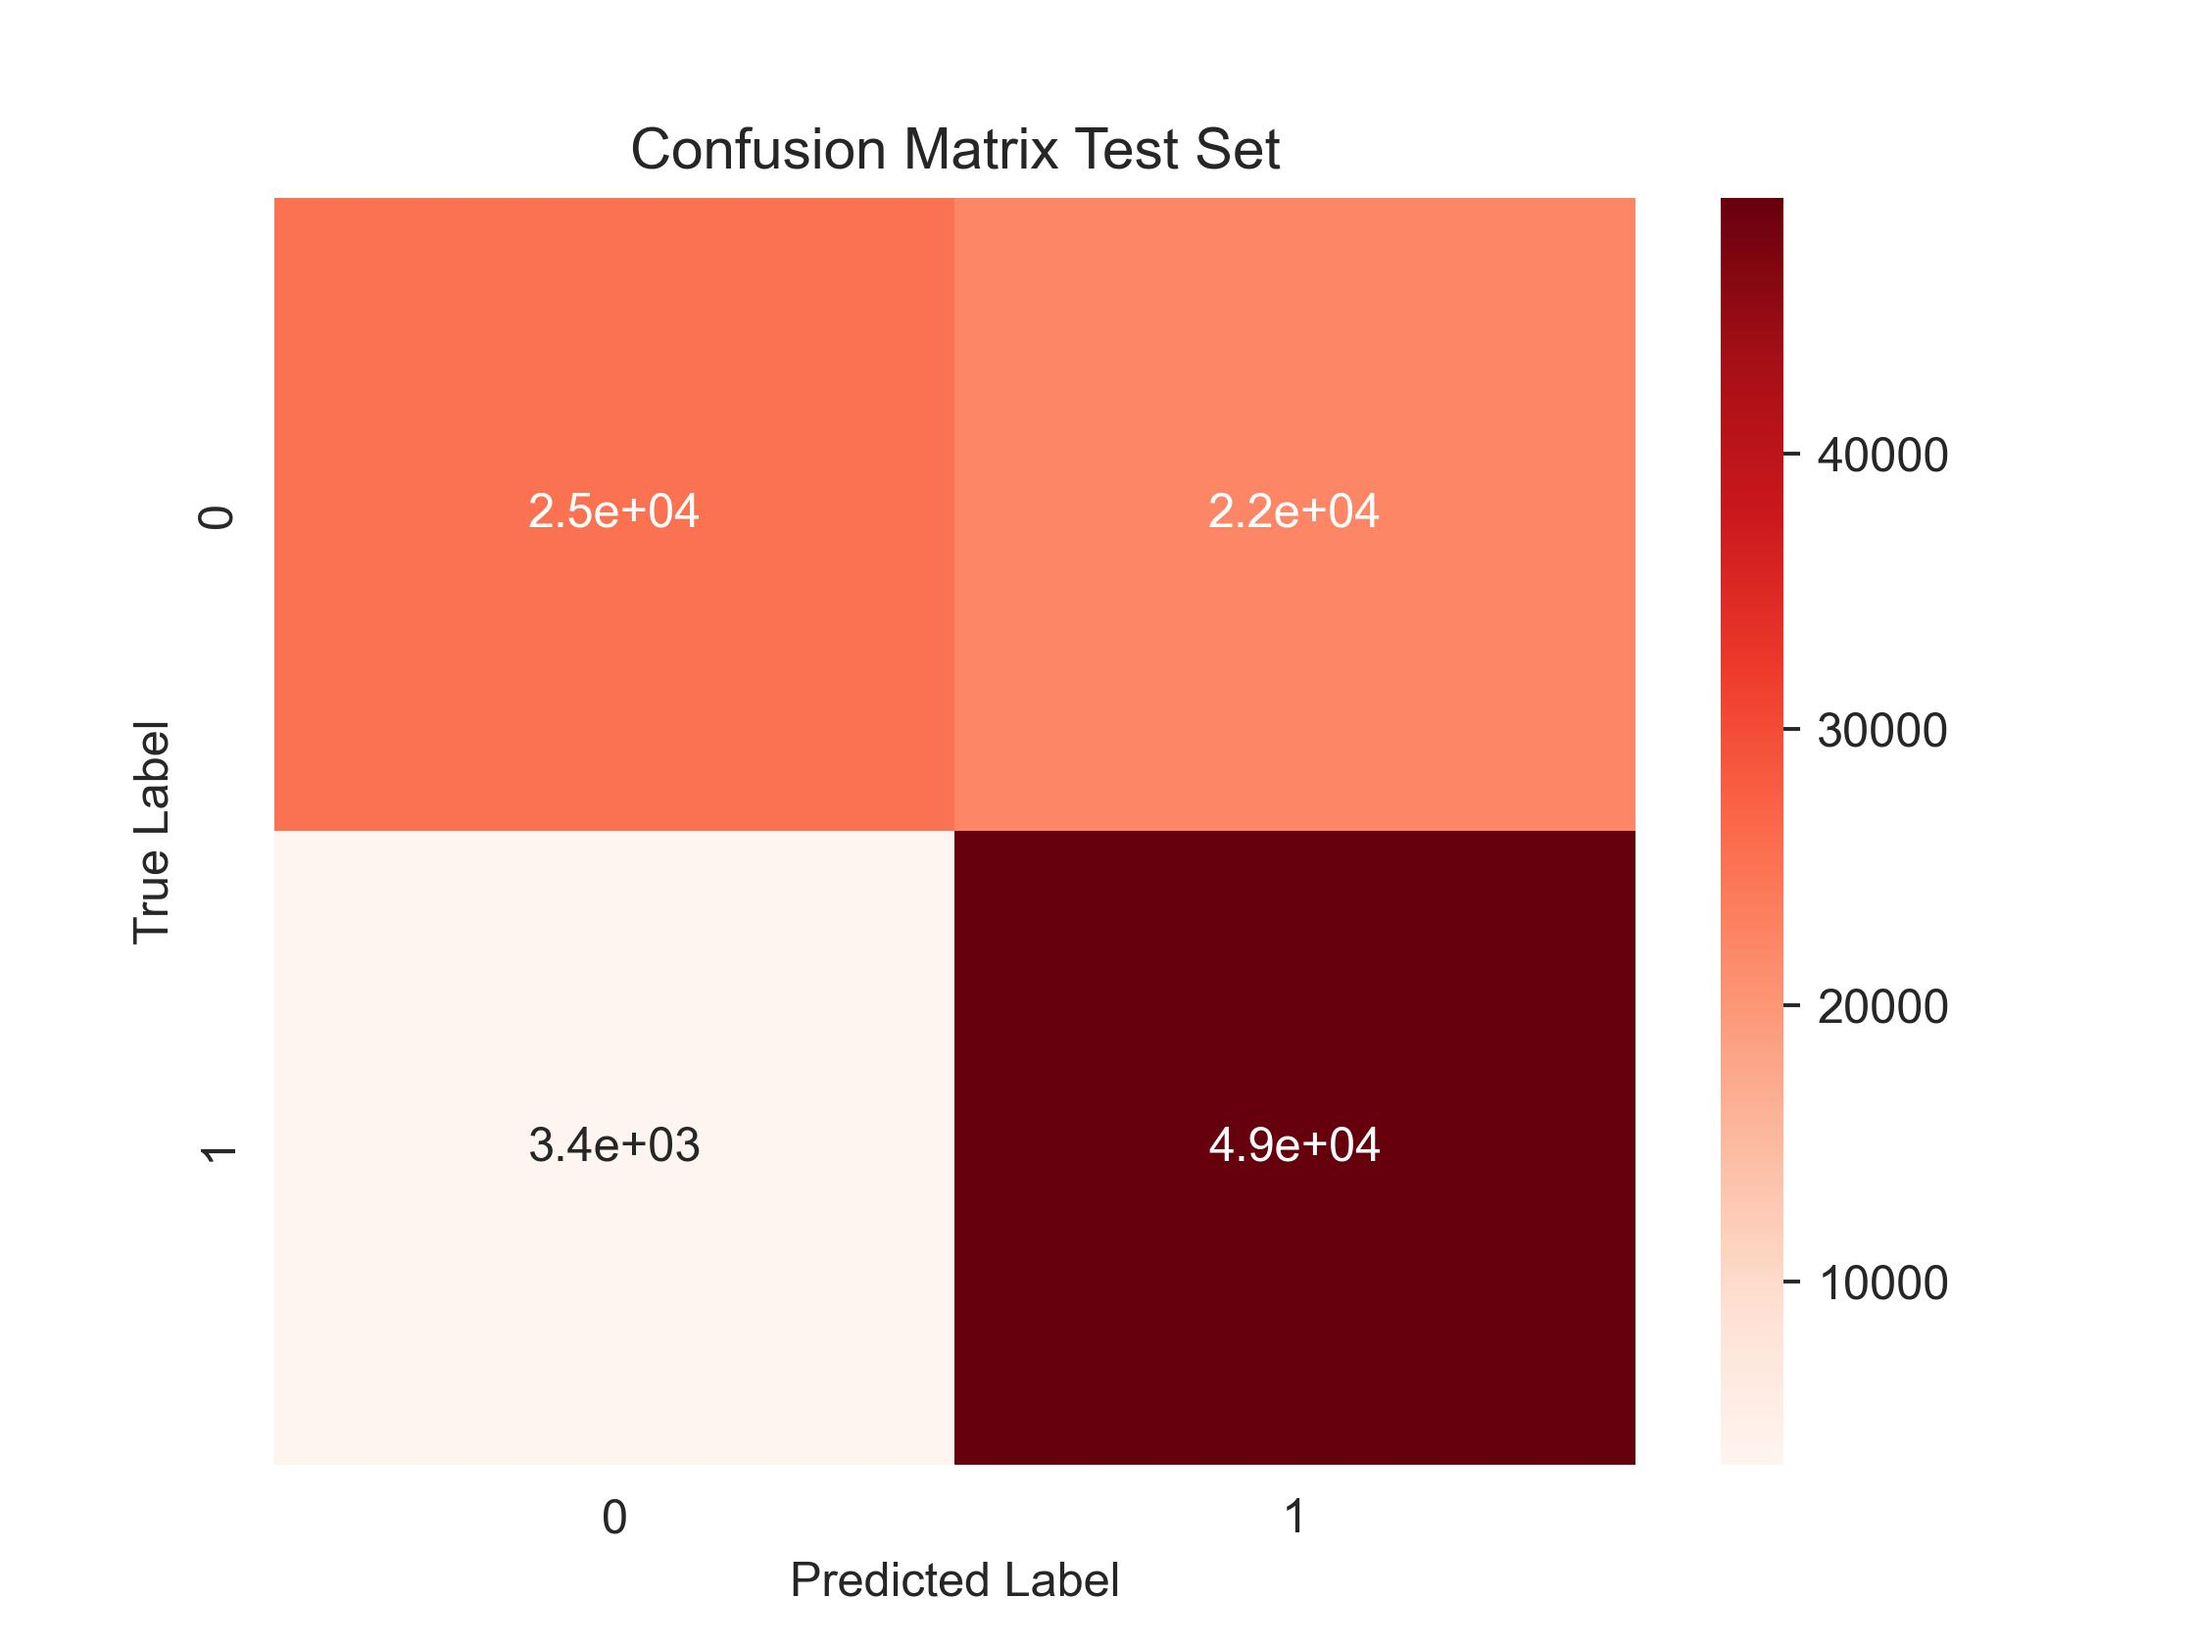
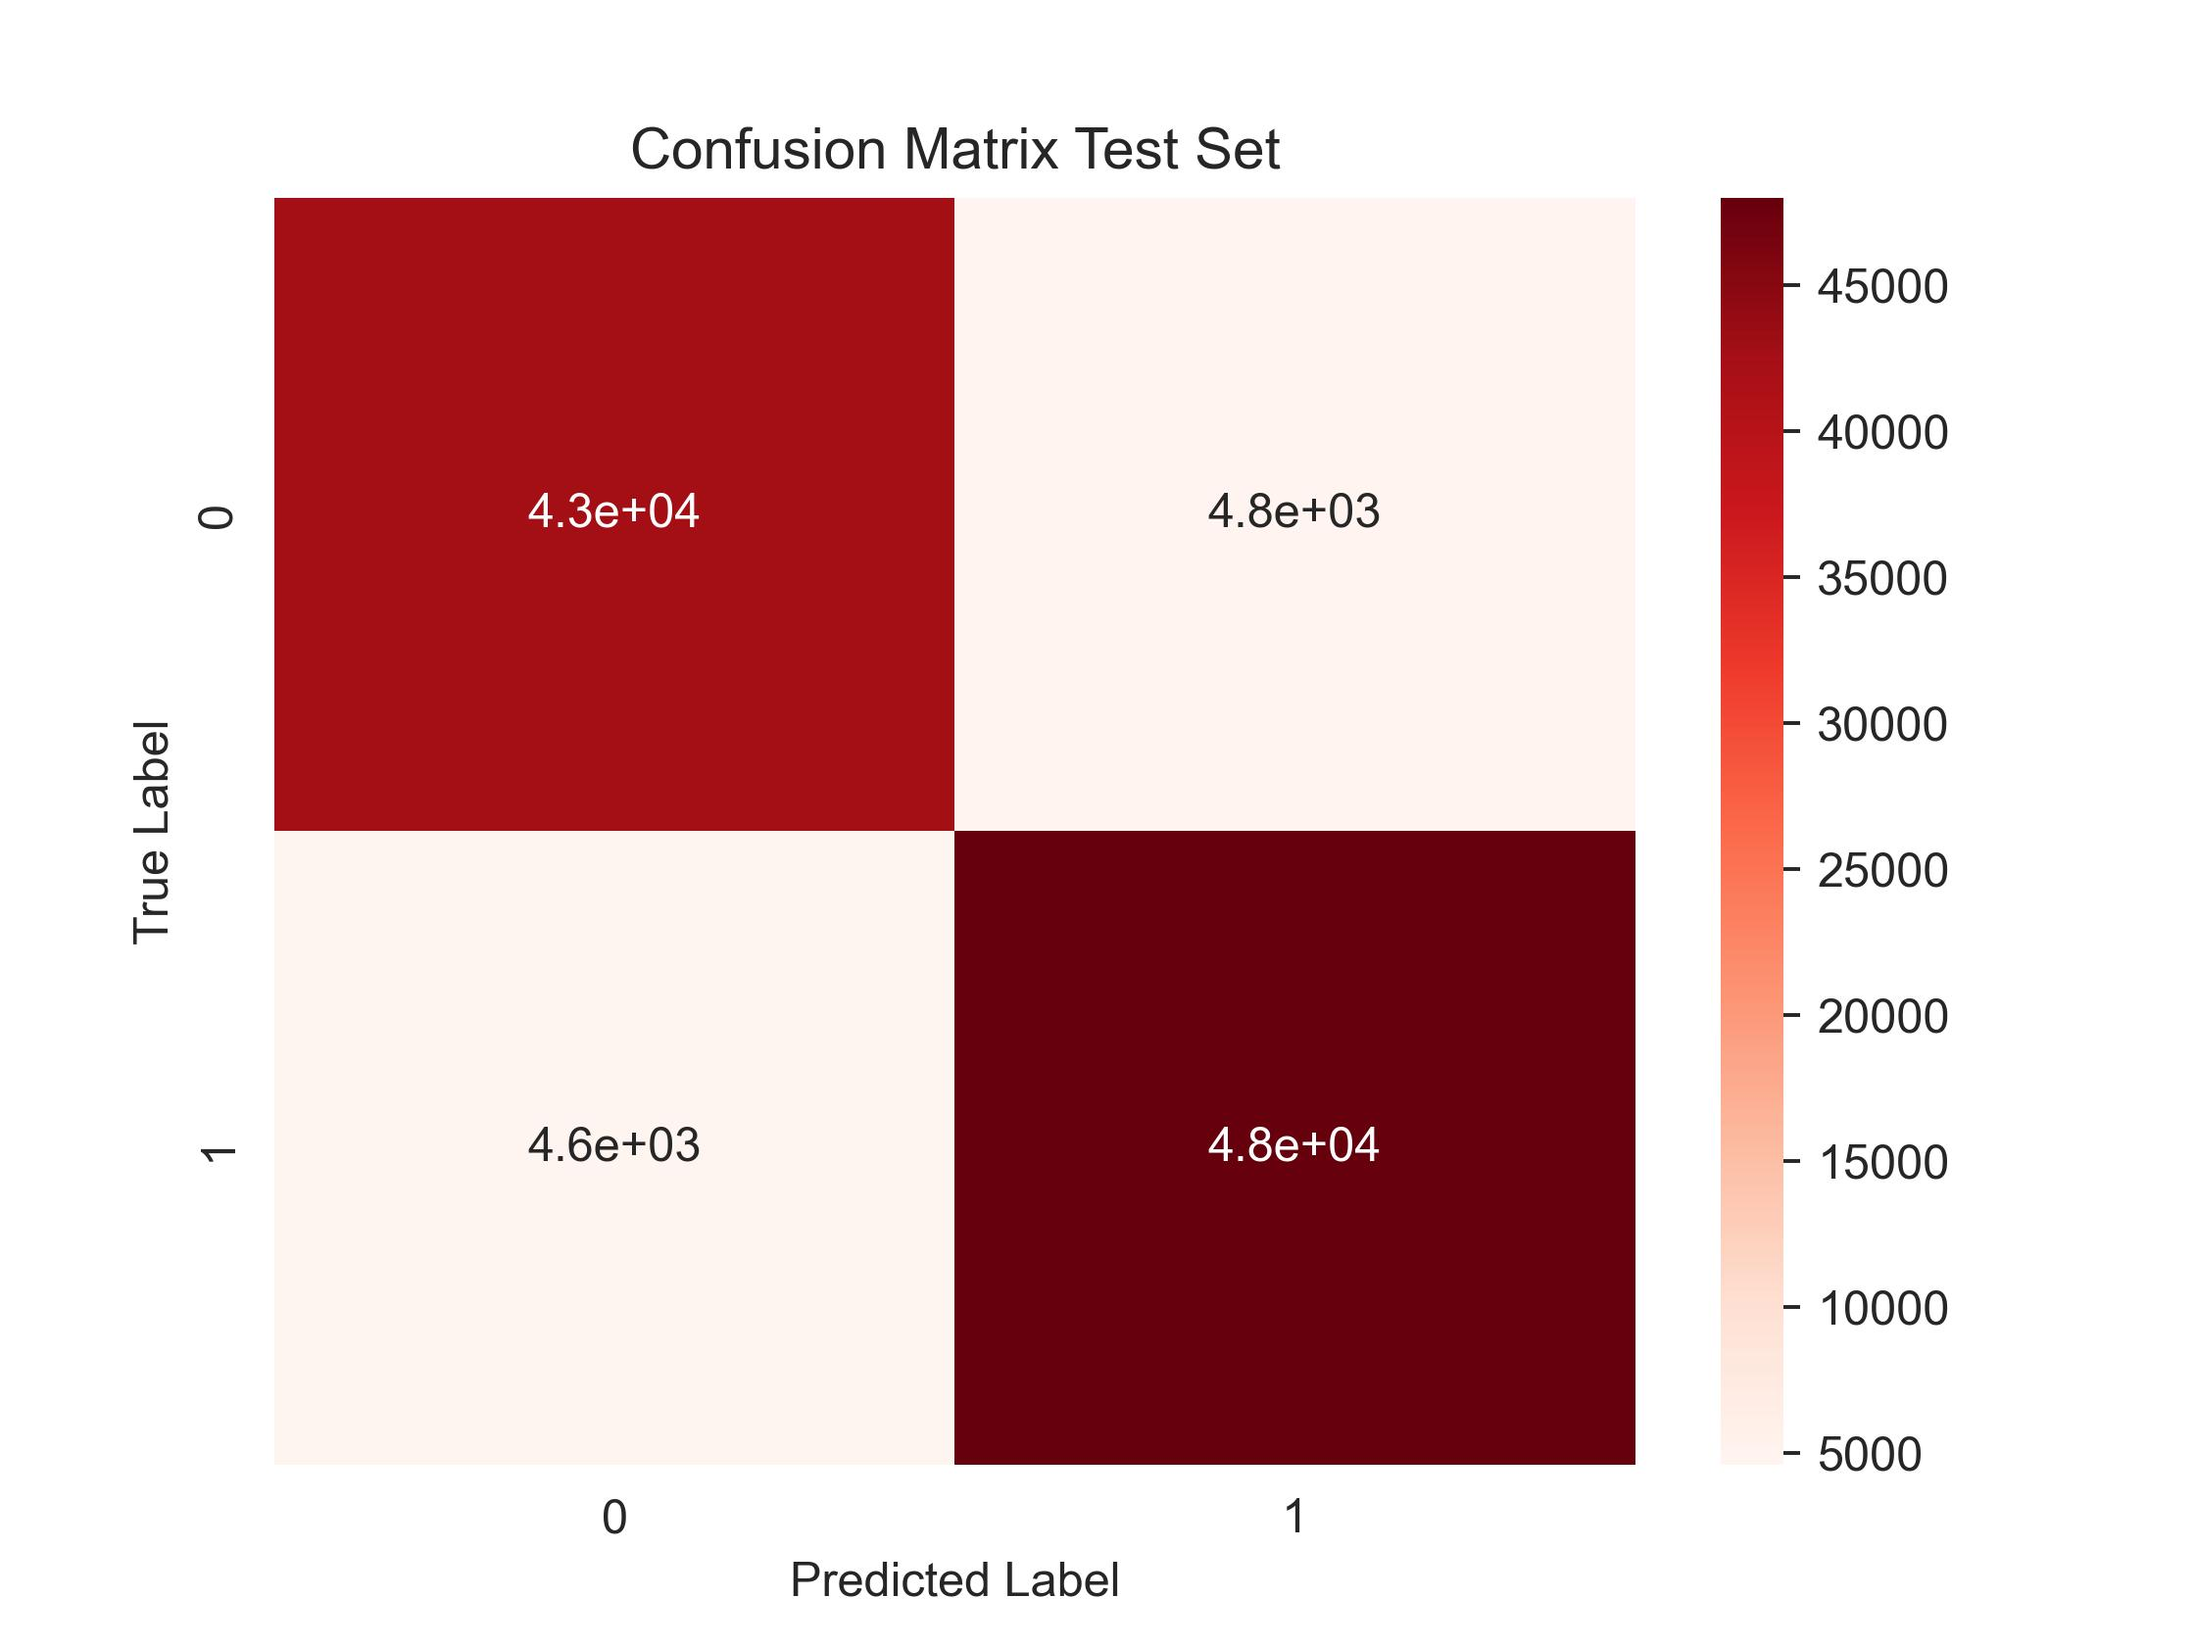
final code for model training and evaluation and plots

diff --git a/assignment_5/src/evaluate_model.py b/assignment_5/src/evaluate_model.py
@@ -1,5 +1,4 @@
 import os
-import ast
 import argparse
 import pickle
 import random
@@ -8,6 +7,7 @@ import numpy as np
 import seaborn as sns
 import matplotlib.pyplot as plt
 from sklearn.metrics import classification_report, confusion_matrix, roc_curve, auc
+from sklearn.tree import plot_tree
 from scipy.stats.distributions import randint
 from train_model import encode_types
 
@@ -61,11 +61,31 @@ def plot_feature_importance(feature_names, feature_importances, save_path):
     # plot the feature importances
     sns.set_style("whitegrid")
     plt.figure(figsize=(10, 8))
-    sns.barplot(data=pd.DataFrame({"Feature Name": feature_names, "Importance": feature_importances}), x="Importance", y="Feature Name")
+    sns.barplot(data=pd.DataFrame({"Feature Name": feature_names, "Importance": feature_importances}).sort_values(by="Importance", ascending=False), x="Importance", y="Feature Name")
     plt.title("Feature Importances")
     plt.xlabel("Mean Decrease in Impurity (MDI)")
     plt.savefig(save_path, dpi=350)
     plt.close()
+
+def plot_decision_trees(estimators, feature_names, save_dir, n_trees=3):
+    """
+    Plots n_trees decision trees sampled uniformly at random from the input ones.
+
+    Parameters:
+    - estimators: list of DecisionTreeClassifier objects representing a random forest.
+    - feature_names: array with the names of the features.
+    - save_dir: path to the directory where to save the plots.
+    - n_trees: integer representing the number of decision trees to be sampled and plotted.
+    """
+
+    # sample n_trees decision trees
+    sampled_trees = random.sample(estimators, k=n_trees)
+
+    # plot each sampled tree
+    for i, tree in enumerate(sampled_trees):
+        plot_tree(tree, feature_names=feature_names, filled=True, max_depth=2, proportion=True)
+        plt.savefig(os.path.join(save_dir, f"sampled_decision_tree_{i}.jpg"), dpi=350)
+        plt.close()
 
 def parse_args():
     """
@@ -127,3 +147,6 @@ if __name__ == '__main__':
 
     # create a plot with feature importance
     plot_feature_importance(X_test.columns, clf.feature_importances_, os.path.join(args.plots_dir, "feature_importances_plot.jpg"))
+
+    # sample and save the plot of some decision trees
+    plot_decision_trees(clf.estimators_, X_test.columns, args.plots_dir)
